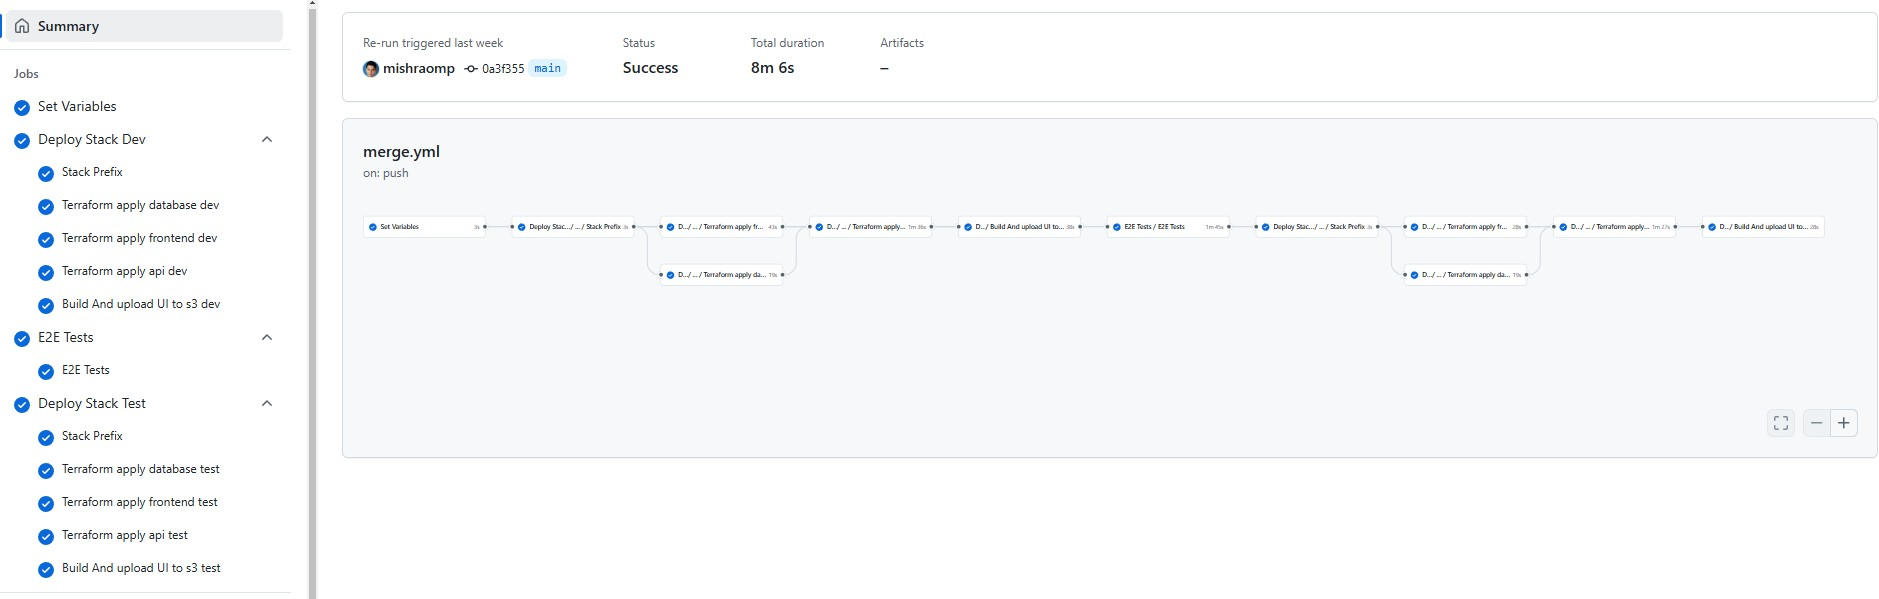
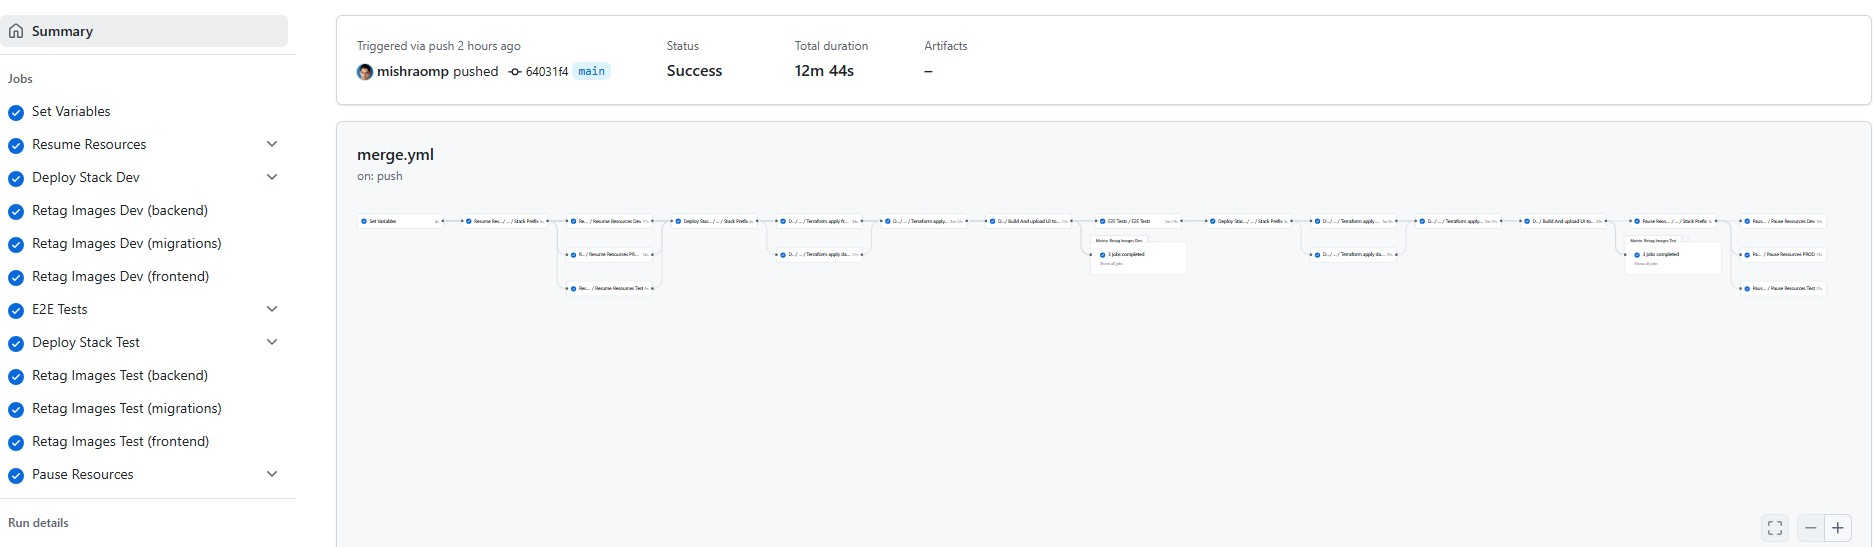
feat: workflow changes (#92)
* feat: workflow changes

* fix: description

* chore: graphics update

diff --git a/GHA.md b/GHA.md
@@ -20,21 +20,25 @@ The workflows in this repository are organized into three main categories:
 
 **Purpose**: Validates the proposed changes to ensure they meet quality standards and work as expected. Additionally allows manual deployment to the dev environment through workflow dispatch.
 
+**Concurrency**:
+- Group-based concurrency controls to prevent overlapping operations
+- Jobs can be canceled in progress for newer runs of the same PR
+
 **Steps**:
-1. Builds container images for backend, frontend, and migrations, tagging them with:
-   - The PR number (for PR events)
-   - 'manual' tag (for workflow dispatch events)
-   - 'latest' tag
-   - 'pr-{number}' tag
-2. Runs comprehensive tests on the codebase including:
+1. Uses reusable `.builds.yml` workflow to build container images for backend, frontend, and migrations .
+2. Plans infrastructure changes using Terraform/Terragrunt with concurrency controls
+3. Runs comprehensive tests on the codebase including:
    - Backend unit tests with a PostgreSQL service container
    - Frontend unit tests
    - Security scanning with Trivy
-3. SonarCloud analysis for code quality
-4. Plans infrastructure changes using Terraform/Terragrunt
+4. SonarCloud analysis for code quality
 5. For workflow dispatch events:
-   - Resumes any paused resources in the dev environment
-   - Deploys the stack to the dev environment for testing
+   - Resumes paused resources in the dev environment with concurrency control
+   - Deploys the stack to the dev environment for testing with concurrency protection
+
+**Permissions**: 
+- Enhanced security permissions including attestations for vulnerability scanning
+- Pull request write access for status updates
 
 **Outputs**: Container images with appropriate tags, test results, SonarCloud reports, and (for workflow dispatch) a deployed environment
 
@@ -67,19 +71,25 @@ The workflows in this repository are organized into three main categories:
 
 ### `merge.yml`
 
-**Trigger**: Push to main branch (merge)
+**Trigger**: Push to main branch (merge) or manual workflow dispatch with PR number
 
-**Purpose**: Creates production-ready resources and deploys to the dev environment.
+**Purpose**: Creates production-ready resources and deploys to both dev and test environments in sequence.
+
+**Concurrency**: Ensures only one deployment runs at a time for the main branch
 
 **Steps**:
 1. Determines the PR number that was merged
-2. Builds or reuses container images tagged with that PR number
-3. Runs tests on the built containers
-4. Adds 'latest' tag to container images
-5. Deploys the stack to the dev environment using Terragrunt
-6. Runs end-to-end tests against the deployed environment
+2. Resumes all AWS resources (dev, test, and prod) before deployment
+3. Deploys the stack to the dev environment using Terragrunt
+4. Retags container images with 'dev' tag
+5. Runs end-to-end tests against the deployed dev environment
+6. Deploys the stack to the test environment using Terragrunt
+7. Retags container images with 'test' tag
+8. Pauses all AWS resources after successful deployment to save costs
 
-**Outputs**: Deployed application in dev environment, container images with 'latest' tag
+**Outputs**: 
+- Deployed applications in both dev and test environments
+- Container images tagged with PR number, 'dev', and 'test' tags
 
 ### `release.yml`
 
@@ -168,31 +178,56 @@ The workflows in this repository are organized into three main categories:
 - Can be used for specific components
 - Maintains proper dependency order
 
+### `.builds.yml`
+
+**Purpose**: Standardized container image building process.
+
+**Details**:
+- Builds container images for backend, frontend, and migrations
+- Handles image tagging with consistent naming conventions
+- Supports multiple tags including PR numbers, environment names, and 'latest'
+- Designed to be reusable across different workflows
+- Uses the bcgov/action-builder-ghcr action for optimized builds
+
 ## Resource Management Workflows
 
 ### `pause-resources.yml`
 
-**Trigger**: Schedule (weekdays at 6PM PST) or manual
+**Trigger**: 
+- Schedule (weekdays at 6PM PST)
+- Manual workflow dispatch with environment selection
+- Workflow call from other workflows
 
 **Purpose**: Cost optimization by pausing resources outside of working hours.
 
+**Inputs**:
+- `app_env`: Environment to pause resources for (dev, test, prod, or all)
+
 **Details**:
-- Identifies resources that can be safely paused
+- Identifies resources that can be safely paused in specified environment(s)
 - Scales down ECS services to zero
 - Stops RDS clusters
 - Uses AWS CLI commands to pause specific services
 - Runs on a schedule to automatically pause resources
+- Can be targeted to specific environments (dev, test, prod)
 
 ### `resume-resources.yml`
 
-**Trigger**: Schedule (weekdays at 6AM PST) or manual
+**Trigger**: 
+- Schedule (weekdays at 7AM PST)
+- Manual workflow dispatch with environment selection
+- Workflow call from other workflows (like PR deployment)
 
-**Purpose**: Resume paused resources at the start of the working day.
+**Purpose**: Resume paused resources at the start of the working day or on-demand.
+
+**Inputs**:
+- `app_env`: Environment to resume resources for (dev, test, prod, or all)
 
 **Details**:
-- Starts RDS clusters
+- Starts RDS clusters in specified environment(s)
 - Scales ECS services back to their configured capacity
 - Ensures all services are in a ready state
+- Can be targeted to specific environments (dev, test, prod)
 
 ### `prune-env.yml`
 
@@ -214,13 +249,18 @@ The workflows use the following environment configurations:
    - Serves as the target for merged PRs from the main branch
    - Uses FARGATE_SPOT instances (80%) for cost optimization
    - Auto-scales based on demand with configurable thresholds
+   - Resources can be paused/resumed individually for this environment
 2. **Testing (test)**: Used for QA and acceptance testing
    - Matches the production configuration for accurate testing
    - Includes database migration execution via Flyway ECS tasks
+   - Requires environment approval for resource management operations
+   - Can be paused/resumed independently from other environments
 3. **Production (prod)**: Used for live production deployments via the release workflow
    - Uses a mix of FARGATE (base=1, 20%) and FARGATE_SPOT (80%) for reliability and cost-effectiveness
    - Database credentials stored and retrieved securely from AWS Secrets Manager
    - API Gateway with VPC Link for secure backend access
+   - Requires strict environment approval for resource management operations
+   - Can be excluded from automatic pause/resume schedules if needed for 24/7 availability
 
 ## Required Secrets
 
@@ -238,27 +278,53 @@ The workflow interactions follow this general pattern:
 ```
 GitHub Event (PR, Push, etc.)
     │
-    ├─── Main Workflow (pr-open.yml, merge.yml, etc.)
-    │       │
-    │       ├─── Build
-    │       │
-    │       ├─── Test (calls .tests.yml)
-    │       │
-    │       ├─── Manual Workflow Dispatch─┐
-    │       │                             │
-    │       │                             ▼
-    │       │                        Resume Resources
-    │       │                             │
-    │       │                             ▼
-    │       ├─── Deploy (calls .deploy_stack.yml)
-    │       │     │
-    │       │     └─── Deploy Components (database, api, frontend)
-    │       │
-    │       └─── Validate (calls .e2e.yml, .load-test.yml)
-    │
-    └─── Resource Management (scheduled)
+    ├─── PR Open/Update ─────────────────── PR Merge to Main
+    │       │                                    │
+    │       │                                    ▼
+    │       │                              Resume Resources
+    │       │                                    │
+    │       ├─── Build (calls .builds.yml)       │
+    │       │     with concurrency control       │
+    │       │                                    │
+    │       ├─── Plan Infrastructure             │
+    │       │     with concurrency control       │
+    │       │                                    │
+    │       ├─── Test (calls .tests.yml)         │
+    │       │     with concurrency control       │
+    │       │                                    ▼
+    │       │                                Deploy to Dev
+    │       ├─── Manual Workflow Dispatch─┐      │
+    │       │                             │      ▼
+    │       │                             ▼   Retag Images (dev)
+    │       │                        Resume Dev  │
+    │       │                             │      ▼
+    │       │                             ▼   Run E2E Tests
+    │       │                        Deploy to Dev
+    │       │                                    │
+    │       │                                    ▼
+    │       │                              Deploy to Test
+    │       │                                    │
+    │       │                                    ▼
+    │       │                              Retag Images (test)
+    │       │                                    │
+    │       │                                    ▼
+    │       └─── Results                    Pause Resources    │
+    └─── Resource Management
             │
-            ├─── Pause/Resume Resources
+            ├─── Pause Resources (Scheduled/Manual/After deployment)
+            │     │
+            │     ├─── Dev Environment
+            │     │
+            │     ├─── Test Environment (with approval)
+            │     │
+            │     └─── Prod Environment (with approval)            │
+            ├─── Resume Resources (Scheduled/Manual/Before deployment)
+            │     │
+            │     ├─── Dev Environment
+            │     │
+            │     ├─── Test Environment (with approval)
+            │     │
+            │     └─── Prod Environment (with approval)
             │
             └─── Prune Environments
 ```

diff --git a/README.md b/README.md
@@ -198,20 +198,24 @@ This repository includes sophisticated GitHub Actions workflows for continuous i
 ![Pull Request Workflow](./.github/graphics/pr-open.jpg)
 
 When a pull request is opened:
-1. Code is tested and validated using test runners in isolated environments
-2. Security scans are performed with Trivy for vulnerability detection
-3. SonarCloud analysis runs for both frontend and backend code quality
-4. A review environment can be created automatically for testing
-5. End-to-end tests verify functionality across the entire stack
+1. Code is built with concurrency control to prevent overlapping operations
+2. Infrastructure changes are planned with Terraform/Terragrunt
+3. Comprehensive tests are run in isolated environments with concurrency control
+4. Security scans are performed with Trivy for vulnerability detection
+5. SonarCloud analysis runs for both frontend and backend code quality
+6. A review environment can be created manually via workflow dispatch
 
 ## Merge Workflow
 ![Merge](./.github/graphics/merge.jpg)
 
 When code is merged to the main branch:
-1. Containers are built and tagged with appropriate version numbers
-2. Comprehensive tests run against the built containers
-3. Infrastructure is updated or created via Terraform/Terragrunt
-4. New application versions are deployed to the target environment
+1. AWS resources are automatically resumed across all environments
+2. The application is deployed to the dev environment
+3. Container images are tagged with the 'dev' tag
+4. End-to-end tests verify functionality against the dev environment
+5. Upon successful testing, deployment progresses to the test environment
+6. Container images are tagged with the 'test' tag
+7. AWS resources are paused after deployment to optimize costs
 
 ## GitHub Actions Workflows Overview
 
@@ -219,19 +223,26 @@ The repository includes a comprehensive set of GitHub Actions workflows that aut
 
 ### Main Workflows
 - **PR Workflows**: Triggered when pull requests are opened, updated, or closed
-  - `pr-open.yml`: Builds containers, runs tests, and provides validation for new PRs
+  - `pr-open.yml`: Builds containers with concurrency control, runs tests, and provides validation for new PRs
   - `pr-validate.yml`: Ensures code quality and standards compliance
   - `pr-close.yml`: Cleans up resources when PRs are closed
 - **Deployment Workflows**: Handle the deployment pipeline
-  - `merge.yml`: Deploys to development environment when changes are merged to main
+  - `merge.yml`: Resumes resources, deploys to dev and test environments, and then pauses resources
   - `release.yml`: Creates releases and deploys to production (manually triggered)
 
 ### Composite Workflows
+- **Building**: `.builds.yml` 
 - **Testing**: `.tests.yml`, `.e2e.yml`, `.load-test.yml`
 - **Deployment**: `.deploy_stack.yml`, `.destroy_stack.yml`, `.deployer.yml`, `.stack-prefix.yml`
 
 ### Resource Management
-- **Cost Optimization**: `pause-resources.yml`, `resume-resources.yml`
+- **Cost Optimization**: 
+  - `pause-resources.yml`: Pauses resources in specified environments (dev/test/prod) either on schedule, manually, or automatically after deployment
+  - `resume-resources.yml`: Resumes resources in specified environments either on schedule, manually, or automatically before deployment
+- **Workflow Integration**:
+  - Resources are automatically resumed before deployments in the merge workflow
+  - Resources are automatically paused after successful deployments to save costs
+  - Individual environment targeting allows for selective resource management
 - **Cleanup**: `prune-env.yml`
 
 For detailed documentation on all GitHub Actions workflows, including their triggers, purposes, steps, and outputs, see the [GitHub Actions Workflows Guide](./GHA.md).
@@ -289,7 +300,10 @@ To adapt this template for your own project:
 4. **CI/CD Pipeline Adjustments**
    - Modify GitHub workflows in `.github/workflows` as needed
    - Update deployment configuration to match your AWS account structure
-   - Configure resource management workflows (pause/resume) to match your schedule
+   - Configure resource management workflows (pause/resume) to match your schedule:
+     - Adjust cron schedules for automatic pausing/resuming based on your working hours
+     - Set up environment-specific resource management for cost optimization
+     - Customize protection rules for production environments
 
 5. **Testing**
    - Adapt existing tests to match your application logic in each component:
